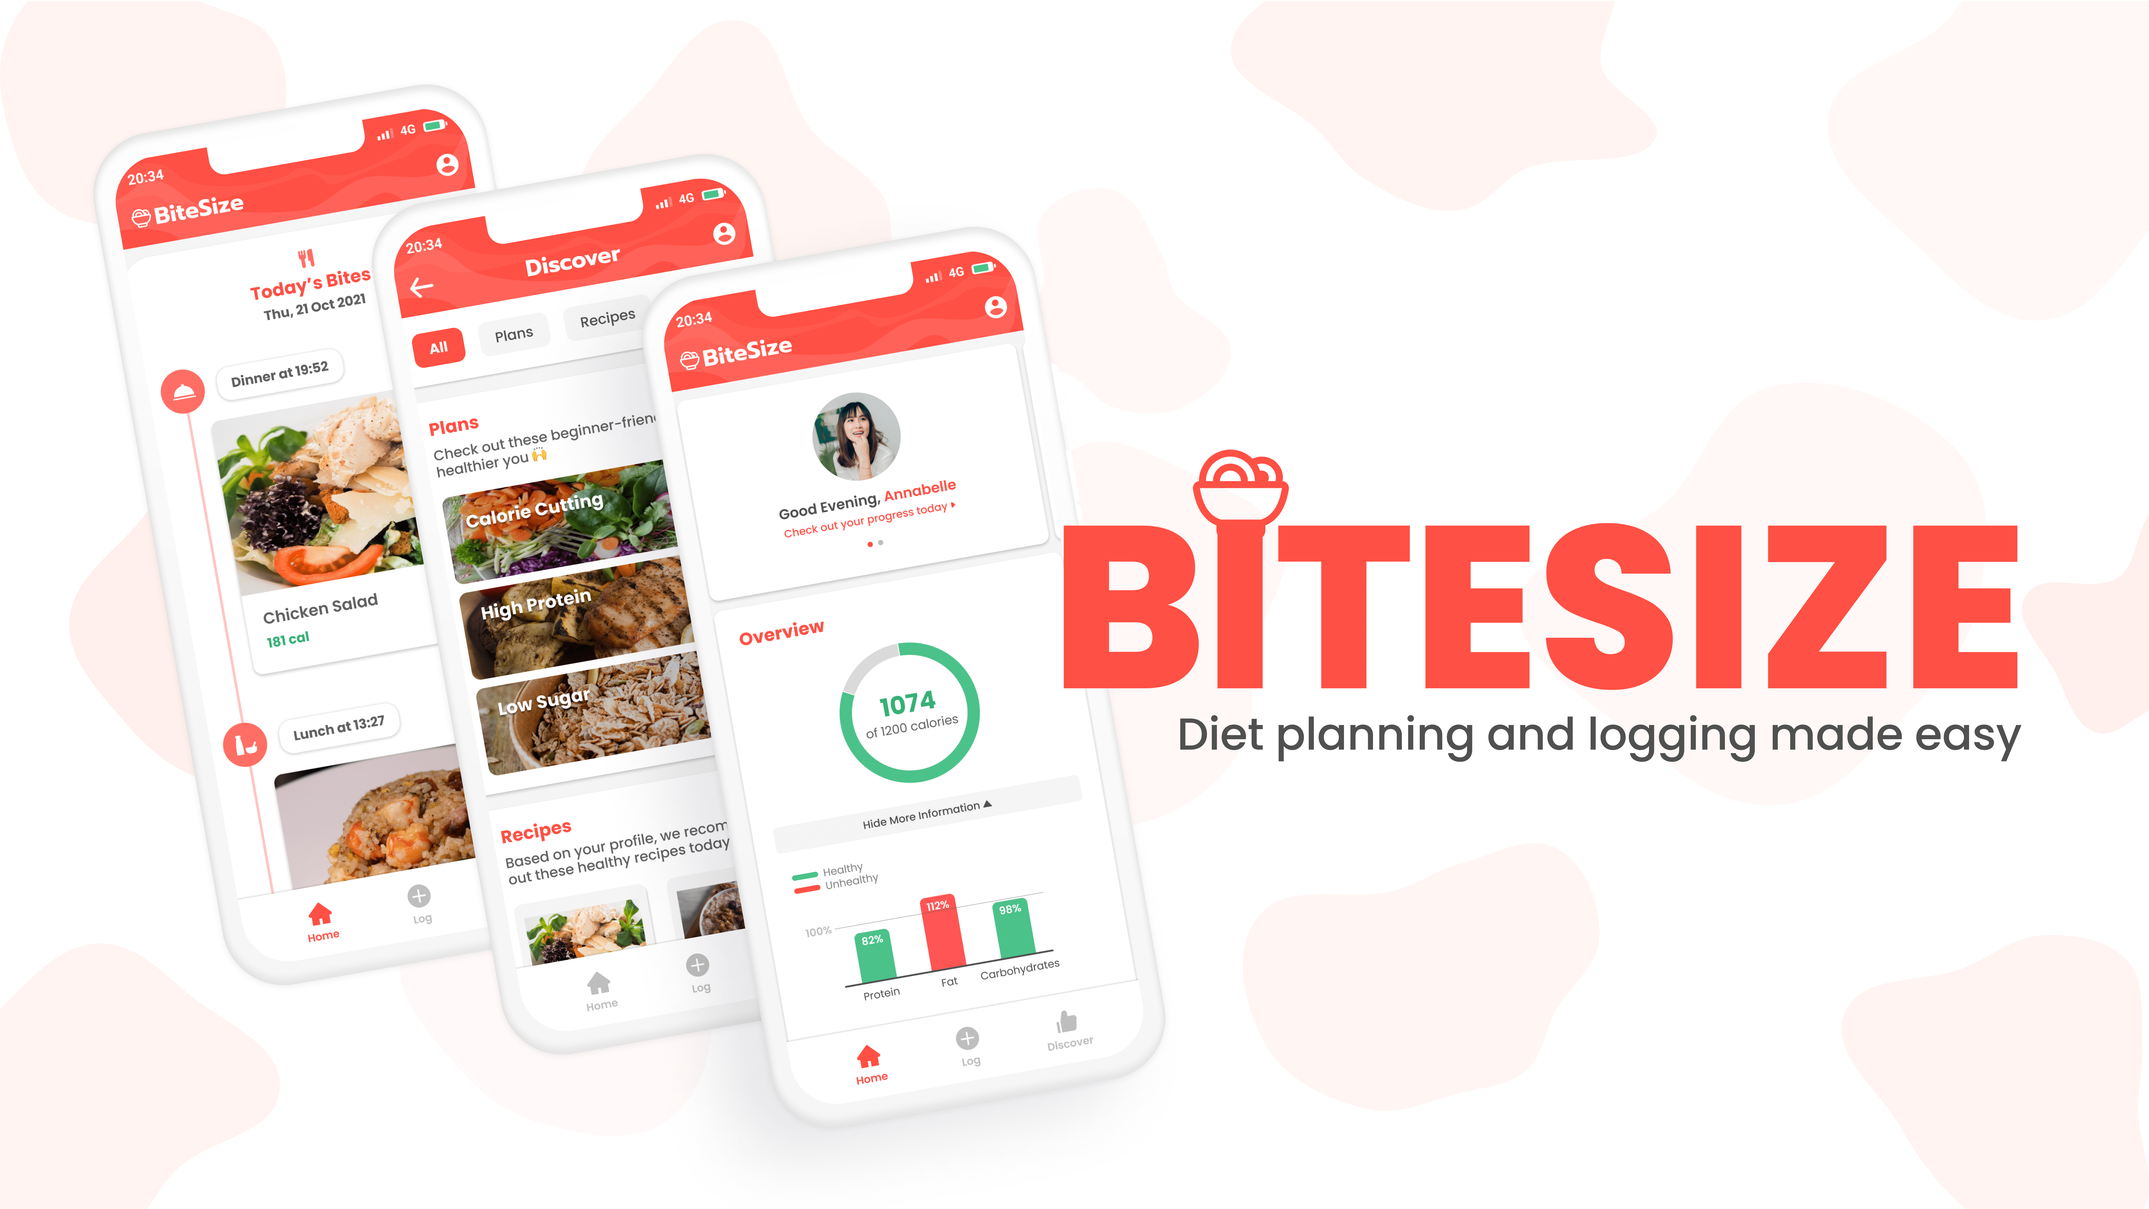
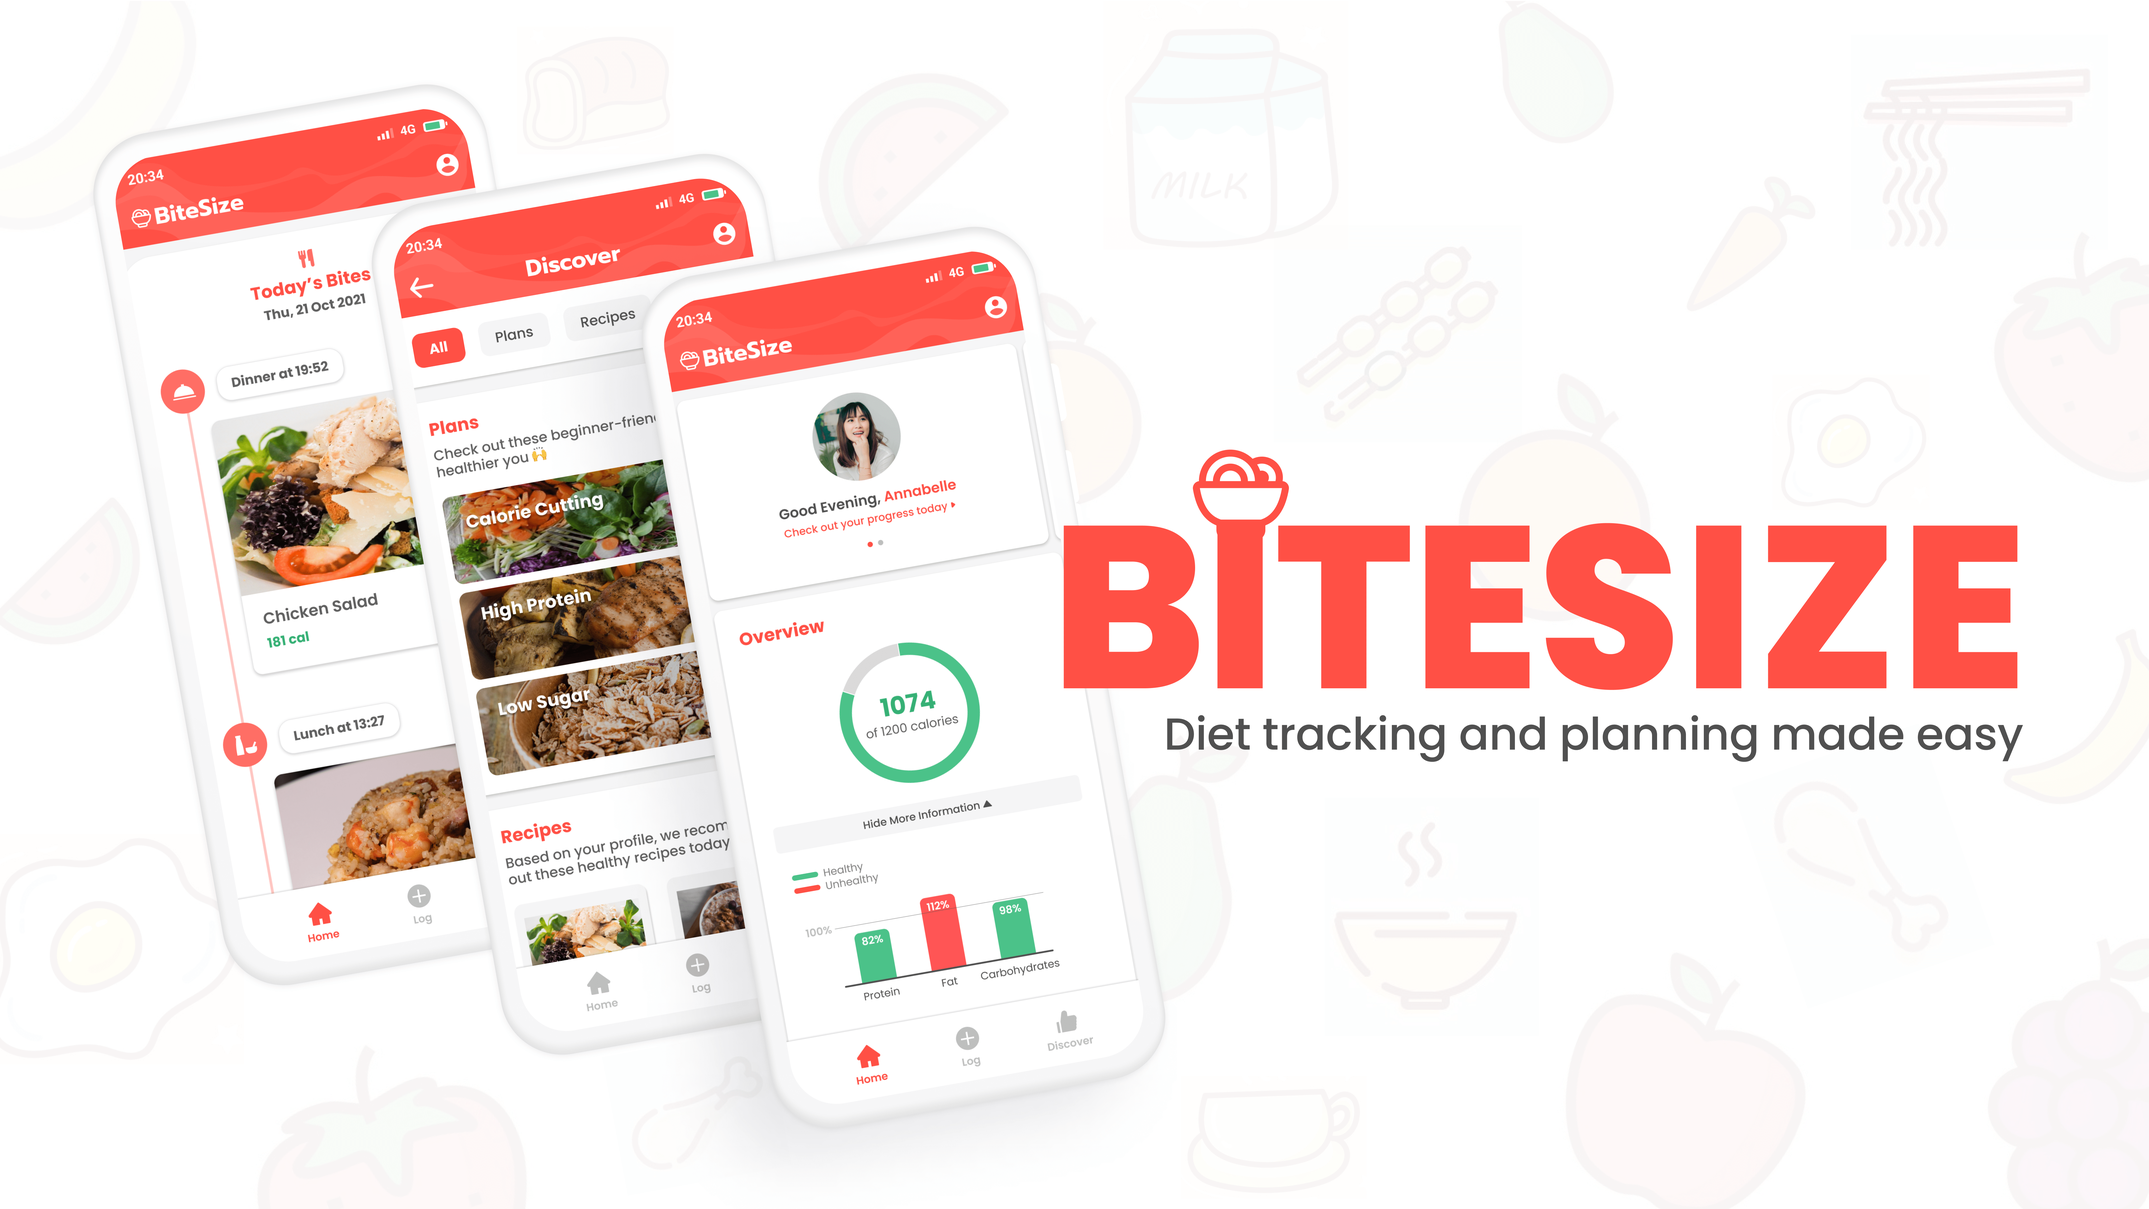
updated BiteSize case study

diff --git a/files/ui-ux/bitesize/index.html b/files/ui-ux/bitesize/index.html
@@ -43,15 +43,11 @@
                 </tr>
                 <tr>
                   <th> Project Type </th>
-                  <td> Individual </td>
+                  <td> Individual, Student Project </td>
                 </tr>
-                <!-- <tr>
-                  <th> Role </th>
-                  <td> UI/UX Designer </td>
-                </tr> -->
                 <tr>
                     <th> Tools Used </th>
-                    <td> Figma, Figjam, Google Sheets </td>
+                    <td> Figma, FigJam, Google Sheets </td>
                 </tr>
             </table>
 
@@ -61,28 +57,177 @@
                     <img src="images/cover.png" alt="bitesize case study">
                 </div>
                 
-                <p> Stay tuned for the full project! </p>
-                
-                <!-- <h3> Overview </h3>
+                <h3> Overview </h3>
                 <p>
-                    This is a student project submission for my <a href="https://nusmods.com/modules/NM3221/mobile-interaction-design" target="_blank">NM3221 Mobile Interaction Design</a> module.
-                </p>
-
-                <h3> Design Brief </h3>
-                <p>
-                    Do a case-study analysis of an existing mobile/web asset, taking into account the stakeholders involved, 
-                    surveying of user opinions on the current design being used, and proposing a <b>re-design on a specific pain point</b> 
-                    that improves on issues that the current mobile/web asset has. 
+                    BiteSize is a dietary tracking and planning app specially catered for local diets, made as a student project submission 
+                    for the <a href="https://nusmods.com/modules/NM3221/mobile-interaction-design" target="_blank">NM3221 Mobile Interaction Design</a> module.
                 </p>
 
                 <h3> Introduction </h3>
                 <p>
-                    DBS PayLah! was first introduced in 2014, admist the drive towards cashless payment in Singapore as part of the Smart Nation Initiative. 
-                    Today, digital wallets are the second-most popular payment method in Singapore, with many competitors in the market such as FavePay, GrabPay and Google Pay. 
-                    Reports have also shown that usage of digital wallets in e-commerce is expected to rise exponentially in the coming years.
+                    According to the Global Nutrition Report, Singapore has shown limited progress towards achieving its diet-related non-communicable disease (NCD) 
+                    targets. Over the years, the Singapore government has spared no effort in initiating new campaigns to encourage Singaporeans to cultivate healthy 
+                    eating habits, such as by declaring a War on Diabetes, or by hosting the Eat, Drink Shop Healthy Challenge. 
+                    While there has been an uptick in the number of Singaporeans who have since adopted healthier eating habits, much remains to be done. 
                 </p>
 
-                <h3> User Research </h3>
+                <!-- <h3> Datasources </h3>
+                <ol> 
+                    To ensure that this is a relevant problem space to tackle at all, I utilized datasets from several sources to inform my approach. 
+                    Most notably, I aggregated information from: 
+
+                    <li> 
+                        <a href="https://www.healthhub.sg/" target="_blank">HealthHub</a>, 
+                        a one-stop web portal initiated by the Ministry of Health for Singaporeans to access a wide range of health-related content; 
+                    </li>
+                    <li> 
+                        <a href="https://data.gov.sg/" target="_blank">Data.gov.sg</a> , 
+                        a publicly available government data repository – specifically, looking at datasets for healthier choice products, healthier eateries, and healthier caterers;
+                    </li>
+                    <li> 
+                        the <a href="https://www.hpb.gov.sg/" target="_blank">Health Promotion Board (HPB)</a> website, 
+                        which is under a credible government organization that aims to promote healthy living in Singapore; and
+                    </li>
+                    <li> 
+                        the <a href="https://globalnutritionreport.org/resources/nutrition-profiles/asia/south-eastern-asia/singapore/" target="_blank">Global Nutrition Report</a>, 
+                        which provides Country Nutrition Profiles tracking progress made by countries towards global nutrition targets set by the World Health Assembly.
+                    </li>
+                </ol> -->
+                
+                <h3> Problem Space </h3>
+                <p>
+                    <b>Diabetes</b><br>
+                    Over 400,000 people were revealed to have diabetes in Singapore during the 2016 Committee of Supply debates in Parliament (HealthHub, 2021). 
+                    One in three were not aware that they had the disease, while for those who were aware, one third had poor control of it. 
+                    It is projected that nearly one million people in Singapore will have diabetes by 2050 if the issue is left unaddressed. 
+                </p>
+                <p>
+                    <b>Obesity</b><br>
+                    The prevalence of obesity has been on the rise for children and adults, both males and females, in Singapore. 
+                    The 2017 National Population Health Survey found that the prevalence of obesity among adult Singaporeans (aged 18 to 59 years) was 8.9%, 
+                    and that among seniors (aged 60 to 74 years) was 6.9%. Meanwhile, 13% of children (aged 6 to 18 years) are considered obese, 
+                    signifying an increase from the 11% in 2013.  
+
+                    <img src="images/data/obese-adults.JPG" alt="obesity trend for adults in Singapore">
+                    <figcaption> Image from the <a href="https://globalnutritionreport.org/resources/nutrition-profiles/asia/south-eastern-asia/singapore/" target="_blank">Global Nutrition Report on Singapore</a> </figcaption>
+                </p>    
+                <p>
+                    This presents a pressing problem space to address, which BiteSize aims to help tackle.
+                </p>
+                    
+
+                <h3> Research Design </h3>
+                <p>
+                    <b>Preliminary Research</b><br>
+                    I first sought to understand the current app options available in the market and identify some potential areas of 
+                    improvement in existing apps. Currently, the most widely used app to track healthy eating both globally and in Singapore is MyFitnessPal. 
+                </p>
+                <ol>
+                    To find out general user sentiments on MyFitnessPal, I first looked at reviews on the Google Play Store. Some pain points identified include:
+                    <li>
+                        the user interface is <b>cluttered with random advertisements</b>, making for a very unpleasant user experience. 
+                        One of the first things users see when they open up the app is a large advertisement, rather than relevant information such as their 
+                        nutritional intake information or progression towards their health goals.
+                    </li>
+                    <img src="images/MFP/ads.png" alt="negative reviews for My Fitness Pal">
+                    <br>
+                    <li>
+                        the interface is also very <b>information dense</b>, which can be intimidating for new users who are unfamiliar with certain terminology, 
+                        leading them to feel overwhelmed by all the features and information available. 
+                        <img class="item-images-small" src="images/MFP/mfp-ui.png" alt="Cluttered UI for My Fitness Pal">
+                    </li>
+                    <li>
+                        Furthermore, MyFitnessPal is <b>not designed to specifically cater for local diets</b> nor is it targeted at local users, which can lead to inaccurate nutritional tracking. 
+                    </li>
+                </ol>
+
+                <p>
+                    Following the preliminary research conducted, I proceeded with primary research where I identified a target user group and find out more specific information on use cases.
+                    <br><br>
+                    <b>Primary Research</b><br>
+                    Target Users: Singaporeans who are conscious about their eating habits and wish to pursue a healthier lifestyle. <br><br>
+                    I employed semi-structured interviews to gather insights into my broader research goals, which was split into 2 main sections: 
+                    (i) interviewee demographics and (ii) healthy eating habits and usage of relevant applications. 
+                    <br><br>
+                    3 interviewees covering a broad range of demographics were selected. 
+                    They ranged from ages 18 to 56, with males and females who are currently undergoing different stages in life (schooling and working) in order to cover 
+                    as wide a range of scenarios as possible. The interview answers were recorded and then organized into various sticky notes for thematic analysis.
+                    
+                    <img src="images/data/NM3221 Individual Project - Frame 1.jpg" alt="Health consciousness">
+                    <p class="highlight-box">
+                    <b>Insight 1:</b> Younger interviewees (blue and pink) acknowledged that healthy eating is important, but stated that they do not really commit to 
+                    making healthy lifestyle choices. Conversely, the older interviewee (yellow) is more conscious about available food choices and healthier alternatives.  
+                    </p>
+                    
+                    <img src="images/data/NM3221 Individual Project - Frame 2.jpg" alt="Health consciousness">
+                    <p class="highlight-box">
+                    <b>Insight 2:</b> Younger interviewees (blue and pink) do not really use health-related apps, citing “laziness” or a lack of discipline to commit to regular usage. 
+                    Meanwhile, the older interviewee (yellow) uses health-related apps such as Healthy 365 regularly in relation to shopping for healthier-choice groceries, 
+                    and other similar apps that provide incentives for engaging in health-related activities. 
+                    </p>
+                    
+                    <p>
+                    Extrapolating from the interview findings, Singaporeans may place different degrees of importance on healthy eating/lifestyle depending on their age 
+                    and stage in life. While older Singaporeans may be more incentivized to make lifestyle choices that are good for their health, younger Singaporeans 
+                    may prioritize convenience instead.  
+                    </p>
+                    
+                </p>
+
+                <h3> Problem Statements </h3>
+                <p>
+                    These interview insights can be summarised in the following problem statements:
+                    <ol>
+                        <li>
+                            Health-conscious Singaporeans need an easy and convenient way to log their food so that they can track of their nutritional intake more 
+                            consistently and accurately.
+                        </li>
+                        <li>
+                            Health-conscious Singaporeans need an easy way to prepare healthy and delicious food according to their dietary needs because they want to 
+                            maintain good health over the long run.
+                        </li>
+                    </ol>
+                </p>
+
+                <h3> User Personas </h3>
+                <p>
+                    Based on the different interviewee profiles and pain points raised, I created 2 user personas to better represent the different sets of pain points that are likely 
+                    to be faced by users from 2 different age groups (younger versus older Singaporeans). 
+                </p>
+                <div class="item-images-grid">
+                    <img src="images/Persona/Andy Ho.png">
+                    <img src="images/Persona/Lilian Foo.png">
+                </div>
+
+                <h3> Introducing BiteSize </h3>
+                <p>
+                    Designed specifically for users based in Singapore, BiteSize will incorporate nutritional guidelines and food composition data by the Health Promotion Board (HPB) to 
+                    recommend suitable dietary plans in a fun and engaging manner. The app will feature a robust dataset of nutritional information for popular dishes found in Singapore, 
+                    and incorporate data on healthier eateries, caterers, and food choices based on the publicly available data at Data.gov.sg. Most importantly, Bitesize will prioritize 
+                    convenience and ease of use when it comes to food logging and preparation of healthy meals for beginners. 
+                </p>
+                <div class="item-images-grid">
+                    <img src="images/data/NM3221 Individual Project - Frame 3.jpg">
+                    <img src="images/data/NM3221 Individual Project - Frame 4.jpg">
+                </div>
+
+                <h3> Lo-fi Wireframing </h3>
+                <img src="images/lofi/Slide 16_9 - 2.png">
+                <img src="images/lofi/Slide 16_9 - 3.png">
+                <img src="images/lofi/Slide 16_9 - 4.png">
+                <img src="images/lofi/Slide 16_9 - 5.png">
+                <img src="images/lofi/Slide 16_9 - 6.png">
+                <img src="images/lofi/Slide 16_9 - 7.png">
+                <img src="images/lofi/Slide 16_9 - 8.png">
+                <!-- <img src="images/lofi/Slide 16_9 - 9.png"> -->
+                
+                <div class="figma-prototype">
+                    <h4> Interactive prototype </h4>
+                    <iframe class="responsive-iframe" style="border: 1px solid rgba(0, 0, 0, 0.1);" width="800" height="600" 
+                    src="https://www.figma.com/embed?embed_host=share&url=https%3A%2F%2Fwww.figma.com%2Fproto%2FpPG3HJB9aKQ60BAFfZJuz6%2FBiteSize-(Portfolio)%3Fnode-id%3D801%253A50%26scaling%3Dscale-down%26page-id%3D4%253A51%26starting-point-node-id%3D801%253A50" allowfullscreen></iframe>
+                </div>
+
+                <!-- <h3> User Research </h3>
                 <p>
                     We conducted <b>5 semi-structured interviews</b> asking a series of questions relating to our research goals, adding necessary prompts where needed. 
                 </p>

diff --git a/styles.css b/styles.css
@@ -575,6 +575,11 @@ nav a.active {
     max-width: 100%;
     margin: 10px auto;
 }
+.case-study-description .item-images-small {
+    max-width: 65%;
+    margin: 20px auto;
+    display: block;
+}
 .case-study-description video {
     max-width: 800px;
     display: block;
@@ -591,7 +596,7 @@ nav a.active {
     line-height: 24px;
     border-radius: 6px;
     margin: 10px 0;
-    text-align: justify;
+    text-align: left;
 }
 .case-study-description a {
     font-family: 'Poppins', sans-serif;
@@ -607,10 +612,10 @@ nav a.active {
     font-weight: 600;
     transition: 0.5s;
 }
-.case-study-description ul {
+.case-study-description ul, ol {
     font-family: 'Poppins', sans-serif;
     color: #353535;
-    font-size: 15px;
+    font-size: 16px;
     line-height: 24px;
     margin: 20px 0 10px;
 }
@@ -619,6 +624,26 @@ nav a.active {
     color: #353535;
     font-size: 15px;
     margin-left: 18px;
+    line-height: 30px;
+}
+.case-study-description figcaption {
+    font-family: 'Poppins', sans-serif;
+    color: #272883;
+    font-size: 14px;
+    margin: 10px 0 30px;
+    text-align: center;
+}
+.case-study-description figcaption a {
+    font-family: 'Poppins', sans-serif;
+    color: #272883;
+    font-size: 14px;
+    margin: 10px 0;
+    text-align: center;
+}
+.case-study-description .highlight-box {
+    border: #fe3414 3px solid;
+    padding: 14px;
+    margin: 20px 10px;
 }
 .img-row {
     display: flex;
@@ -634,7 +659,7 @@ nav a.active {
     margin: 10px;
     max-width: 250px;
 }
-.shopee-figma-prototype {
+.figma-prototype {
     width: 100%;
     margin: 0px auto;
 }

diff --git a/uiux.html b/uiux.html
@@ -40,7 +40,7 @@
                 <h3> BiteSize </h3>
                 <span class="date"> Sep - Nov 2021 </span>
                 <p> 
-                A diet planning and logging app conceptualized for my <a href="https://nusmods.com/modules/NM3221/mobile-interaction-design" target="_blank">NM3221 Mobile Interaction Design</a> module. Stay tuned for the full project!
+                A diet tracking and planning app conceptualized for my <a href="https://nusmods.com/modules/NM3221/mobile-interaction-design" target="_blank">NM3221 Mobile Interaction Design</a> module. 
                 <br>
                 Made using <span class="software">Miro</span>, <span class="software">Figma</span>
                 </p>

diff --git a/files/ui-ux/shopee/index.html b/files/ui-ux/shopee/index.html
@@ -63,7 +63,7 @@
                     <img src="images/shopee-behance-min.png" alt="Shopee ui-ux case study">
                 </div>
                 
-                <div class="shopee-figma-prototype">
+                <div class="figma-prototype">
                     <h4> Interactive prototype </h4>
                     <iframe class="responsive-iframe" style="border: 1px solid rgba(0, 0, 0, 0.1);" width="800" height="600" 
                     src="https://www.figma.com/embed?embed_host=share&url=https%3A%2F%2Fwww.figma.com%2Fproto%2FrE7RE9MR3KlSLL4HoMDkAJ%2FShopee-UI-Redesign-Portfolio%3Fnode-id%3D6%253A2%26scaling%3Dscale-down%26page-id%3D0%253A1" allowfullscreen></iframe>

diff --git a/files/ui-ux/paylah/index.html b/files/ui-ux/paylah/index.html
@@ -43,7 +43,7 @@
                 </tr>
                 <tr>
                   <th> Project Type </th>
-                  <td> Group (4 members)</td>
+                  <td> Group (4 members), Student Project</td>
                 </tr>
                 <!-- <tr>
                   <th> Role </th>
